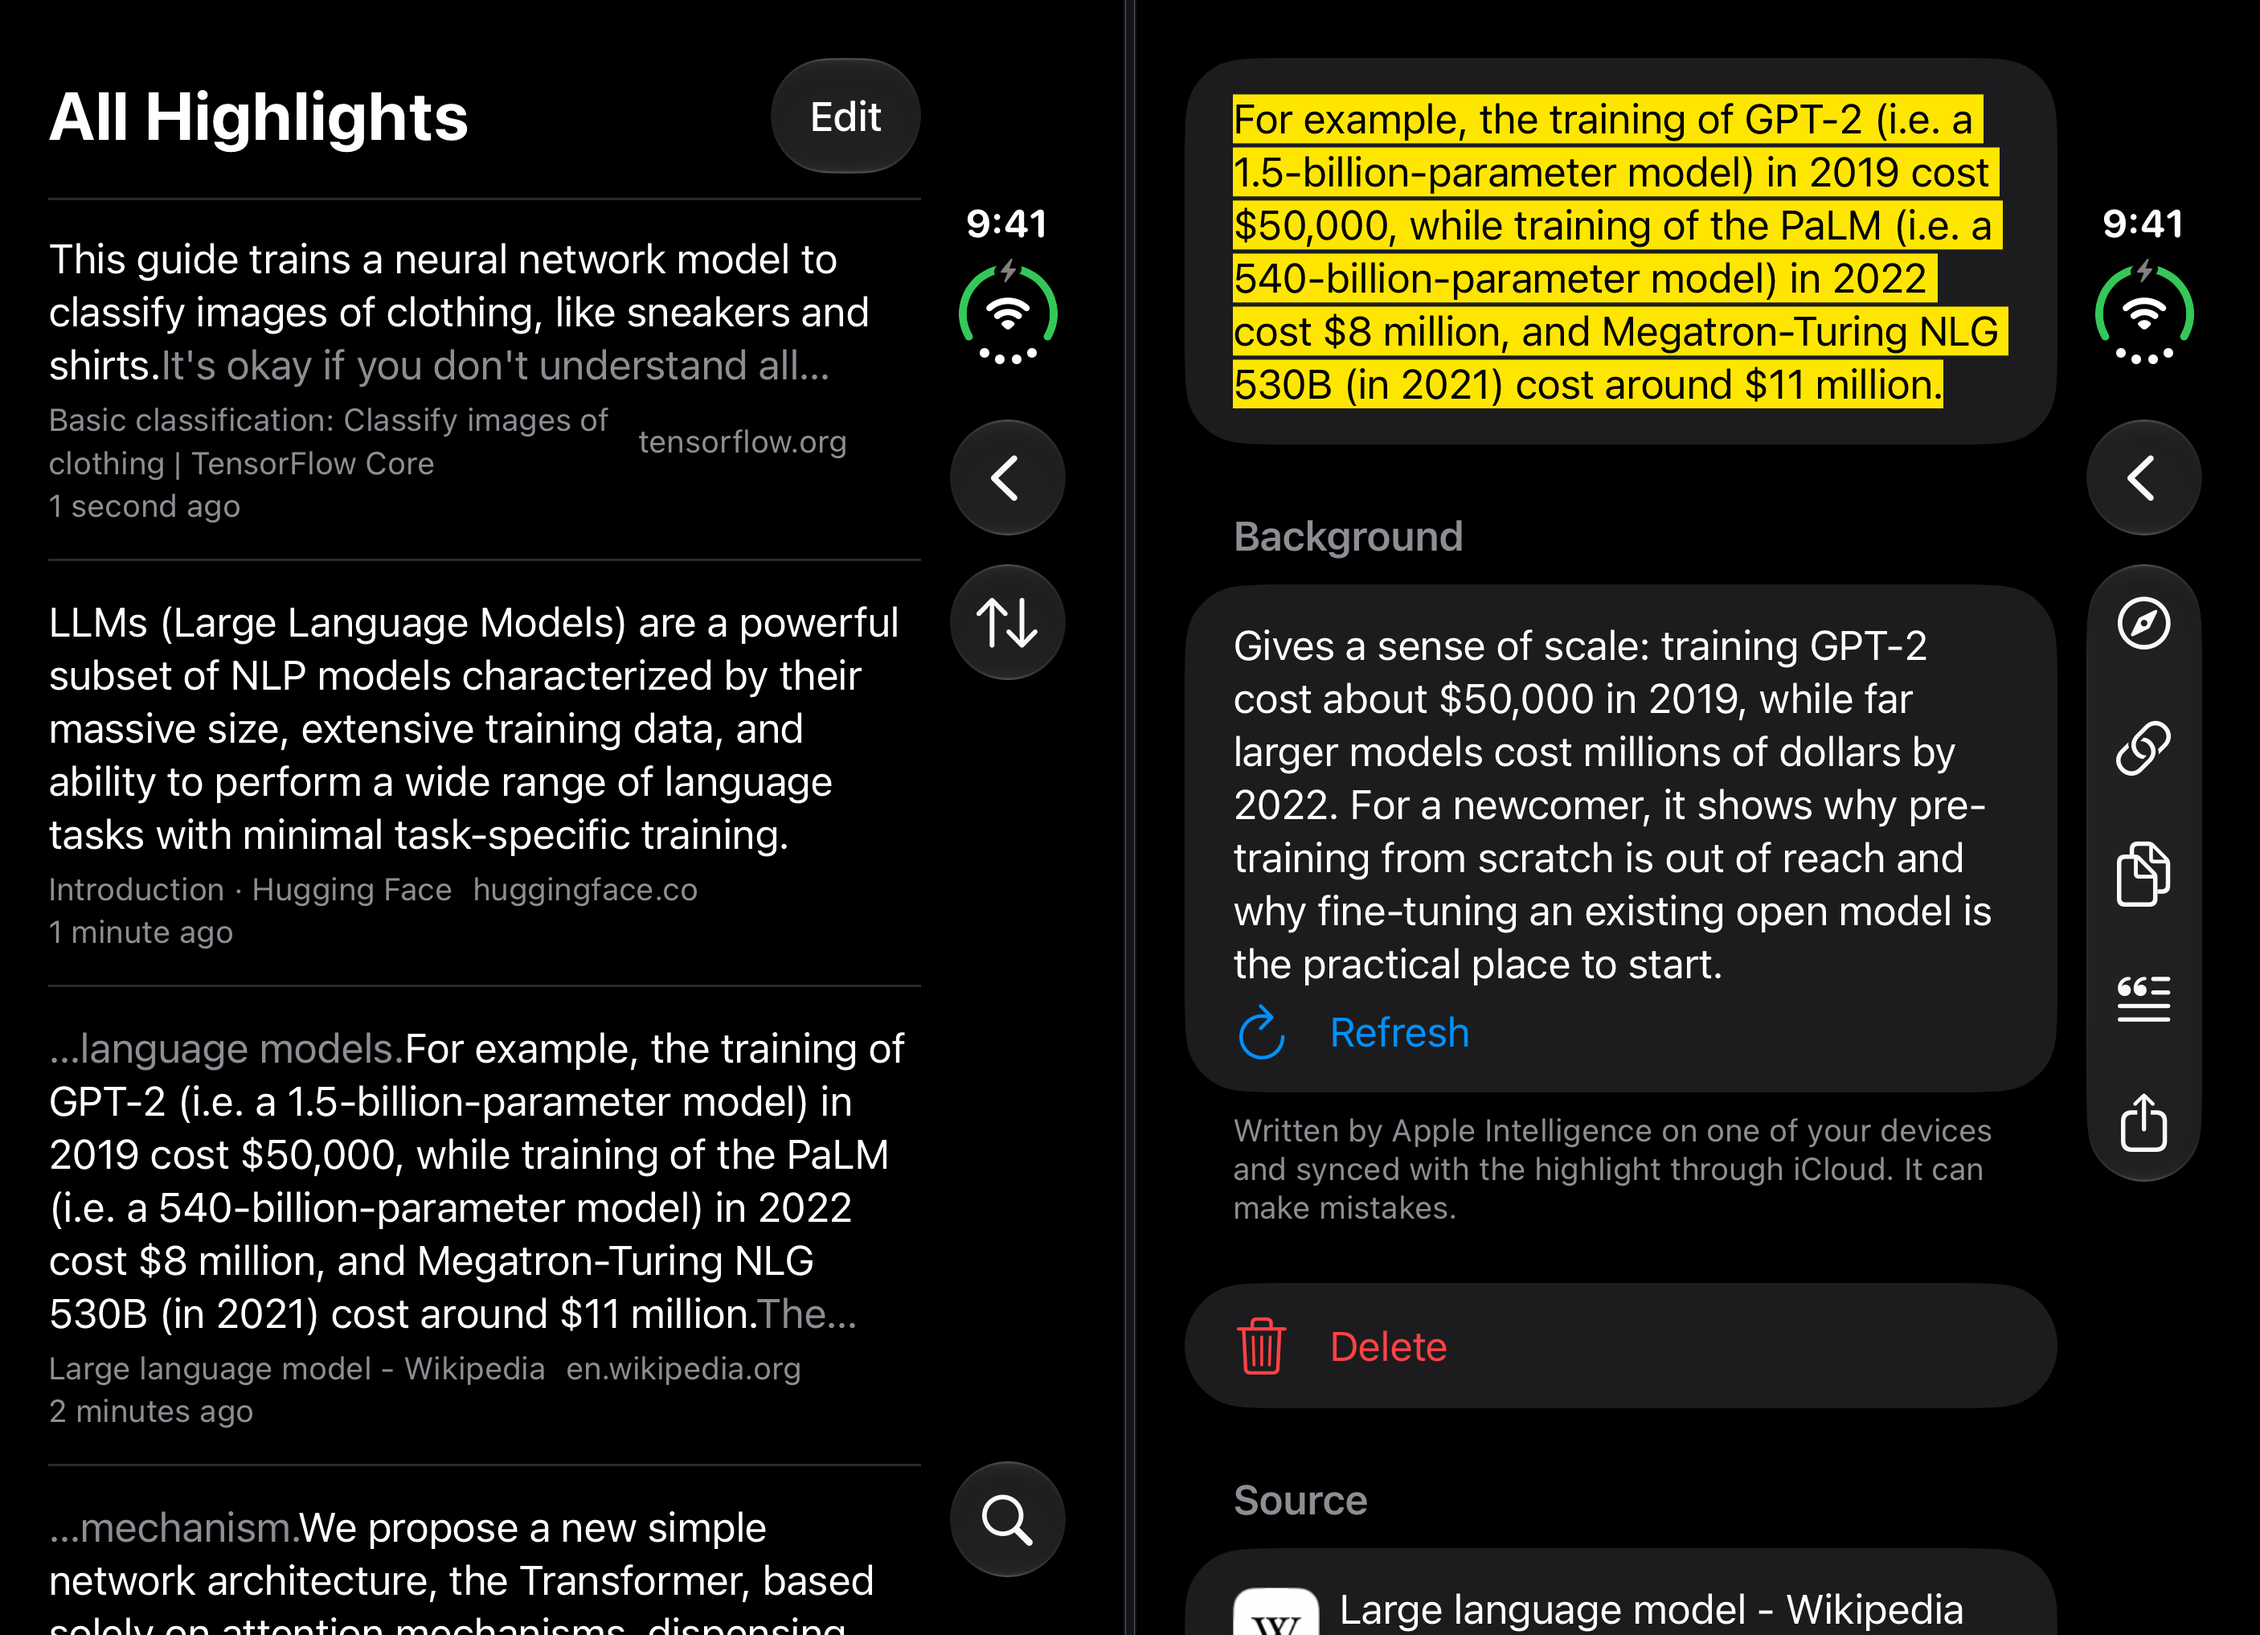
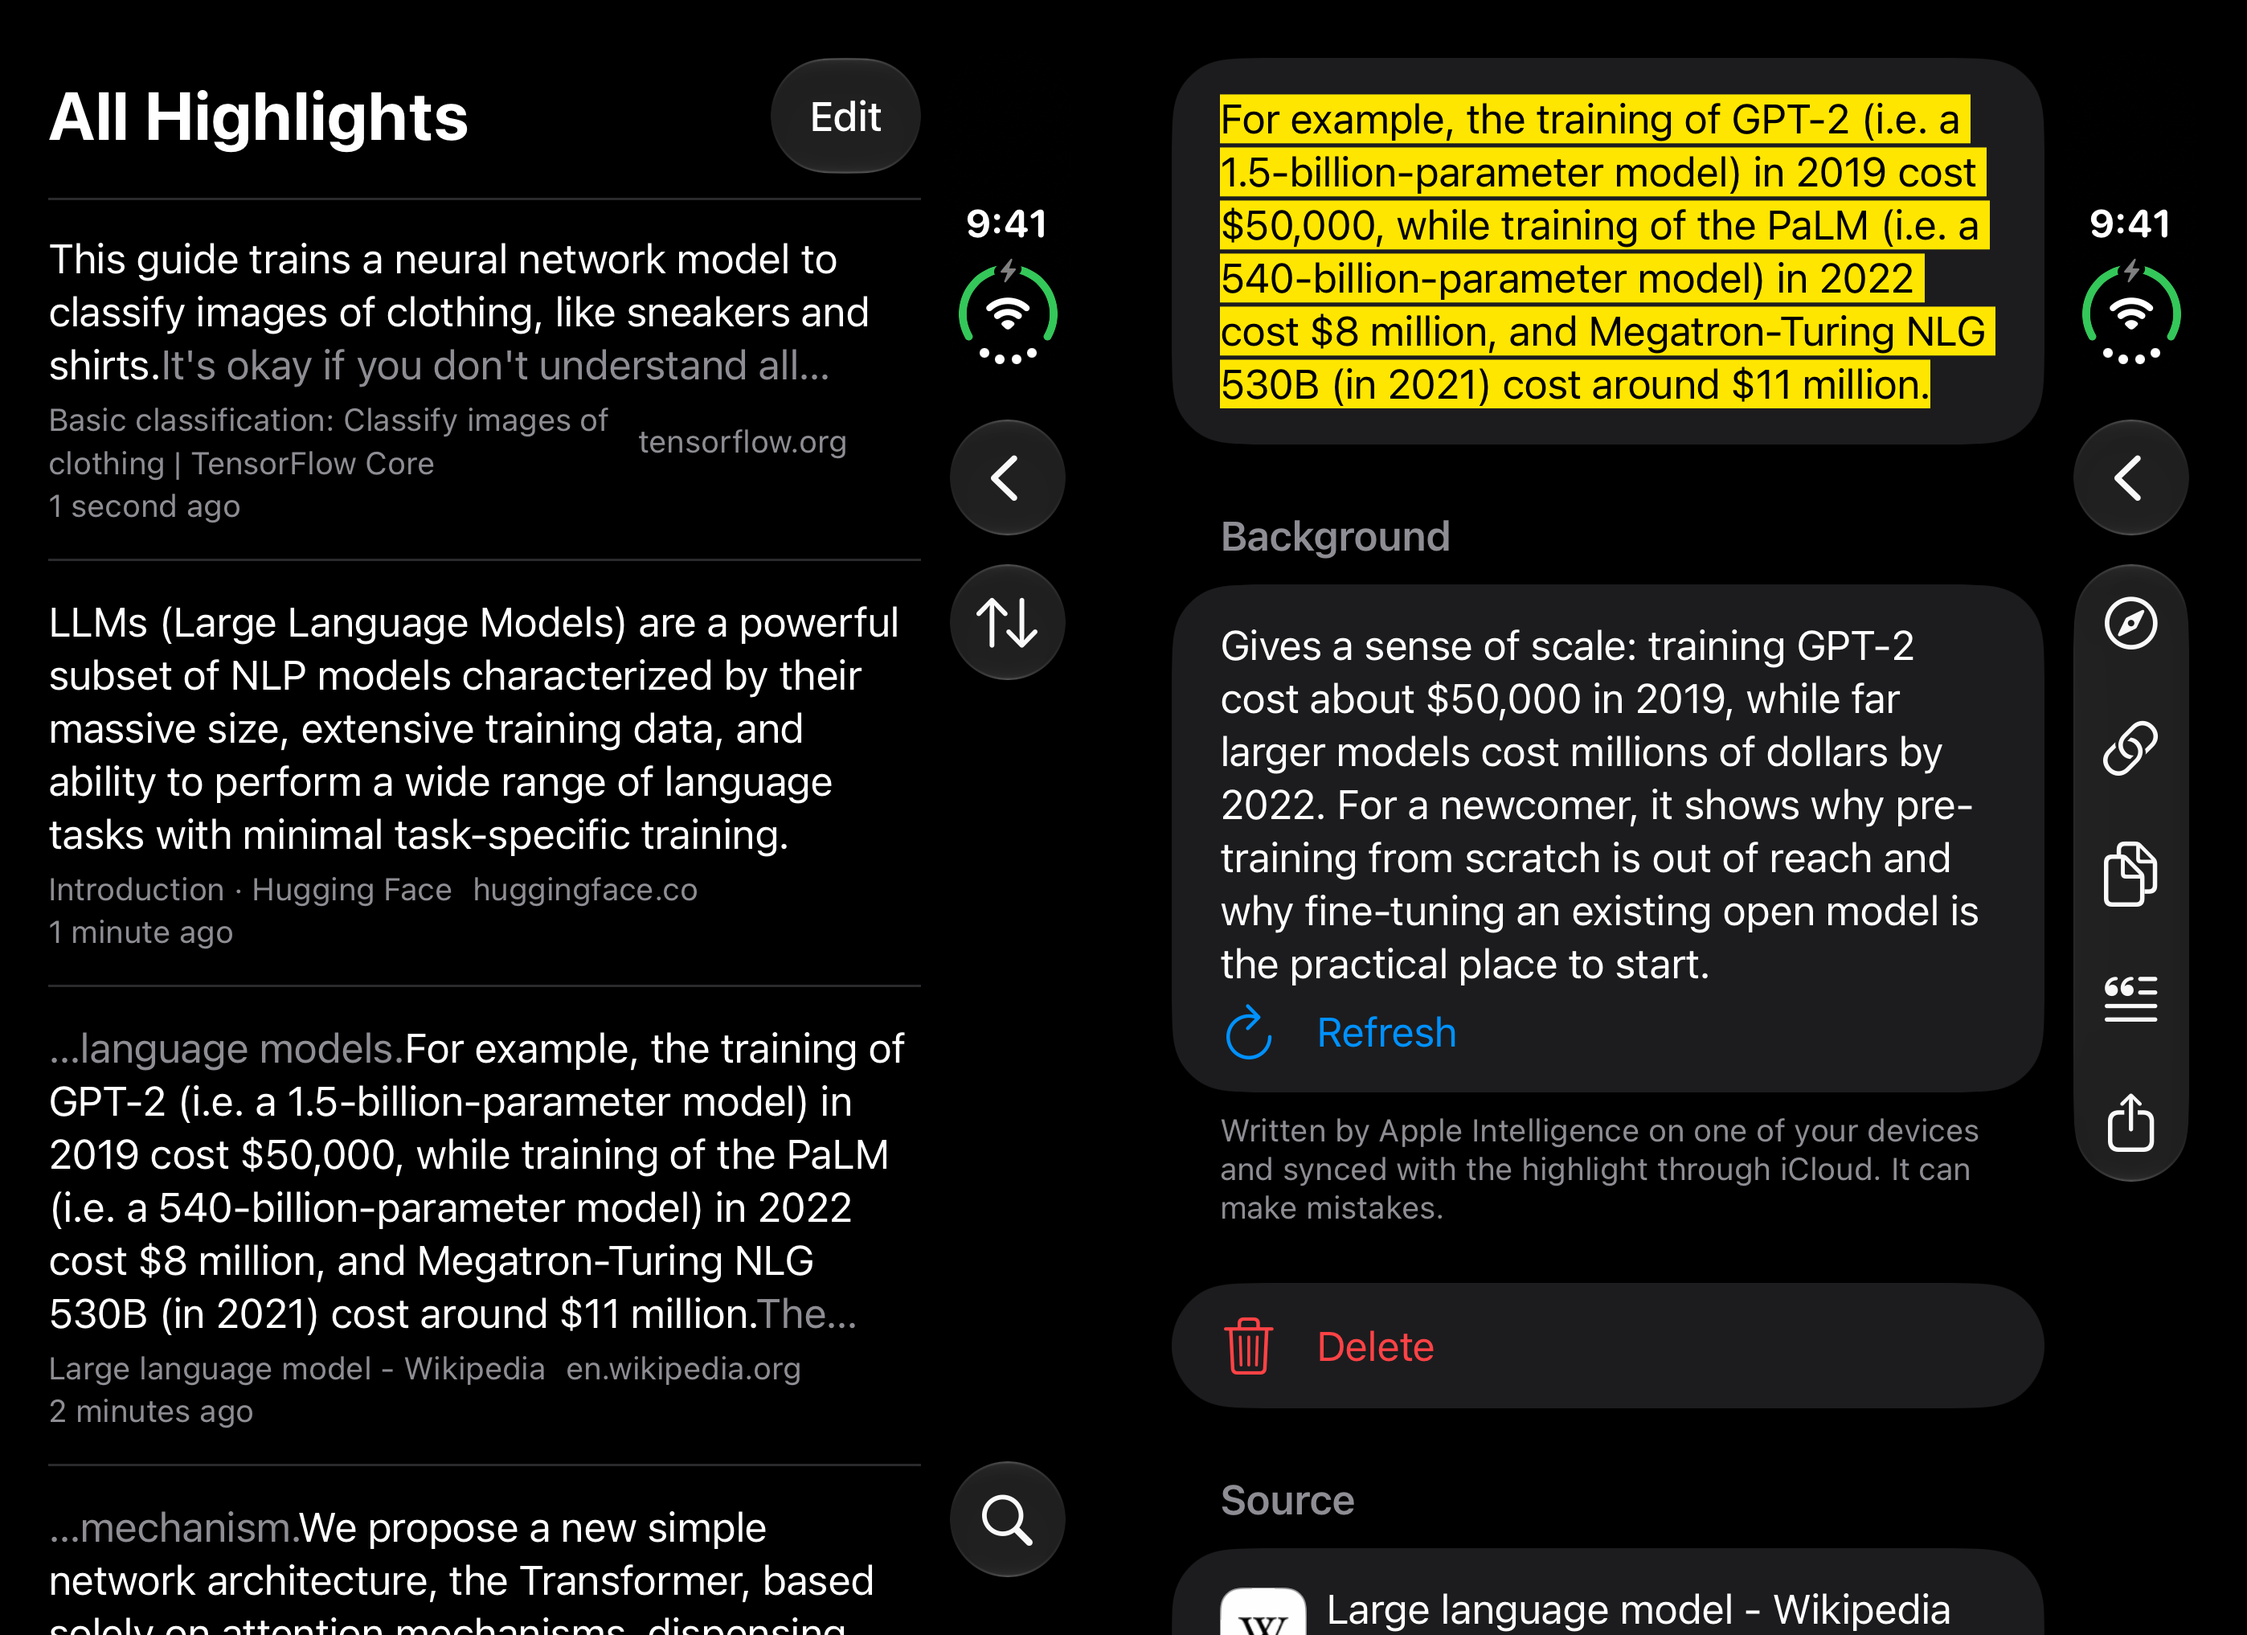
Join Duo screenshot panels into one continuous screen
Remove the artificial center strip without altering either supplied panel or the outer device frame.

diff --git a/src/static/site.css b/src/static/site.css
@@ -515,7 +515,7 @@ img {
 }
 
 .shot-duo .shot-placeholder::before {
-  aspect-ratio: 2812 / 2034;
+  aspect-ratio: 2796 / 2034;
 }
 
 .shot-placeholder p {

diff --git a/README.md b/README.md
@@ -47,13 +47,13 @@ The home page uses the supplied light and dark product captures, not recordings 
 
 Device shells are stylized CSS illustrations, not exact or official hardware replicas: MacBook-inspired frames for wide Mac captures, an iPhone 18s-inspired portrait frame, and one open Duo frame. The portrait Mac settings capture stays in a compact window frame rather than being letterboxed inside a laptop. Only the hardware bezel surrounds each image; the screen takes its size from the capture, with no fixed-aspect letterboxing or stretching.
 
-The user-approved Duo presentation places the newer supplied 1398 × 2034 library and detail panels side by side, unchanged, with a 16 px hinge between them. The result is one 2812 × 2034 landscape screenshot in each appearance, not two independently stacked phones. Both panels remain visible together at every viewport width. The earlier top/bottom composite and portrait iPhone pair are not used. The latest screenshot refresh updates the hero, Safari, Duo and iPhone context captures; AI Access retains its existing light/dark pair because no replacement was supplied.
+The Duo presentation places the supplied 1398 × 2034 library and detail panels edge-to-edge, unchanged, as one continuous screen. The result is one 2796 × 2034 landscape screenshot in each appearance, with no center gap, hinge, divider or separate inner frames. Both panels remain visible together at every viewport width within the outer device frame. The earlier top/bottom composite and portrait iPhone pair are not used. The latest screenshot refresh updates the hero, Safari, Duo and iPhone context captures; AI Access retains its existing light/dark pair because no replacement was supplied.
 
 | Page slot | Layout / asset name / dimensions | Included screen |
 | --- | --- | --- |
 | Hero | MacBook-style · `hero` · 1960 × 1280 | Main library with its website sidebar, saved passages and selected Wikipedia training-cost highlight, AI context and source: the product overview. |
 | Highlight in Safari | MacBook-style · `capture` · 1960 × 1280 | Wikipedia's large language model article with the training-cost passage highlighted: the saved result, without a fleeting Undo message. |
-| Find any passage | Open Duo · `library-duo` · 2812 × 2034 | All Highlights on the left and the selected passage's details on the right, within one landscape/open-device presentation. |
+| Find any passage | Open Duo · `library-duo` · 2796 × 2034 | All Highlights on the left and the selected passage's details on the right, joined edge-to-edge as one continuous screen. |
 | AI tools | Mac window · `ai-access` · 1040 × 1436 | AI settings with AI Access enabled and connection controls visible. No access token value is displayed; this is Twine's integration surface, not a built-in chat. |
 | See how a passage fits | iPhone-style · `context` · 1206 × 2622 | The highlight's details with its completed on-device AI context explanation and source. |
 
